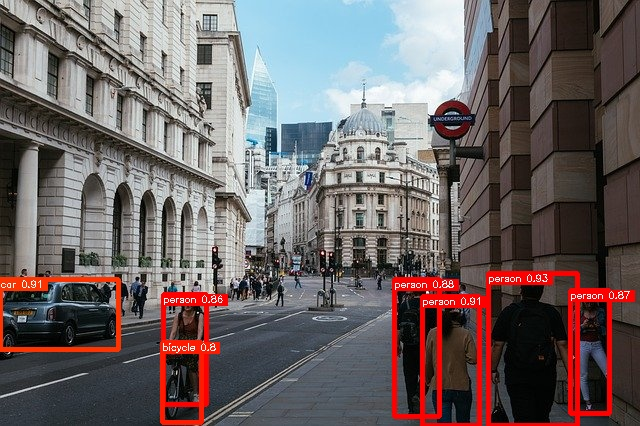
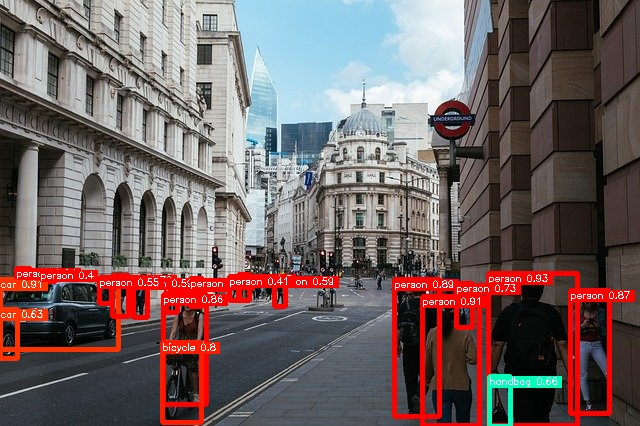
Update default threshold

diff --git a/object_detection/yolox/yolox.py b/object_detection/yolox/yolox.py
@@ -56,6 +56,9 @@ COCO_CATEGORY = [
     "scissors", "teddy bear", "hair drier", "toothbrush"
 ]
 
+SCORE_THR = 0.4
+NMS_THR = 0.45
+
 # ======================
 # Arguemnt Parser Config
 # ======================
@@ -71,6 +74,16 @@ parser.add_argument(
     action='store_true',
     help='Flag to output the prediction file.'
 )
+parser.add_argument(
+    '-th', '--threshold',
+    default=SCORE_THR, type=float,
+    help='The detection threshold for yolo. (default: '+str(SCORE_THR)+')'
+)
+parser.add_argument(
+    '-iou', '--iou',
+    default=NMS_THR, type=float,
+    help='The detection iou for yolo. (default: '+str(NMS_THR)+')'
+)
 args = update_parser(parser)
 
 MODEL_NAME = args.model_name
@@ -79,9 +92,6 @@ MODEL_PATH = MODEL_NAME + ".opt.onnx.prototxt"
 
 HEIGHT = MODEL_PARAMS[MODEL_NAME]['input_shape'][0]
 WIDTH = MODEL_PARAMS[MODEL_NAME]['input_shape'][1]
-
-SCORE_THR = 0.4
-
 
 # ======================
 # Main functions
@@ -120,7 +130,7 @@ def recognize_from_image():
         boxes_xyxy[:, 2] = boxes[:, 0] + boxes[:, 2] / 2.
         boxes_xyxy[:, 3] = boxes[:, 1] + boxes[:, 3] / 2.
         boxes_xyxy /= ratio
-        dets = multiclass_nms(boxes_xyxy, scores, nms_thr=0.45, score_thr=0.8)
+        dets = multiclass_nms(boxes_xyxy, scores, nms_thr=args.iou, score_thr=args.threshold)
         if dets is not None:
             img_size_h, img_size_w = raw_img.shape[:2]
             detect_object = []
@@ -195,7 +205,7 @@ def recognize_from_video():
         boxes_xyxy[:, 2] = boxes[:, 0] + boxes[:, 2] / 2.
         boxes_xyxy[:, 3] = boxes[:, 1] + boxes[:, 3] / 2.
         boxes_xyxy /= ratio
-        dets = multiclass_nms(boxes_xyxy, scores, nms_thr=0.45, score_thr=0.8)
+        dets = multiclass_nms(boxes_xyxy, scores, nms_thr=args.iou, score_thr=args.threshold)
         if dets is not None:
             img_size_h, img_size_w = raw_img.shape[:2]
             detect_object = []
